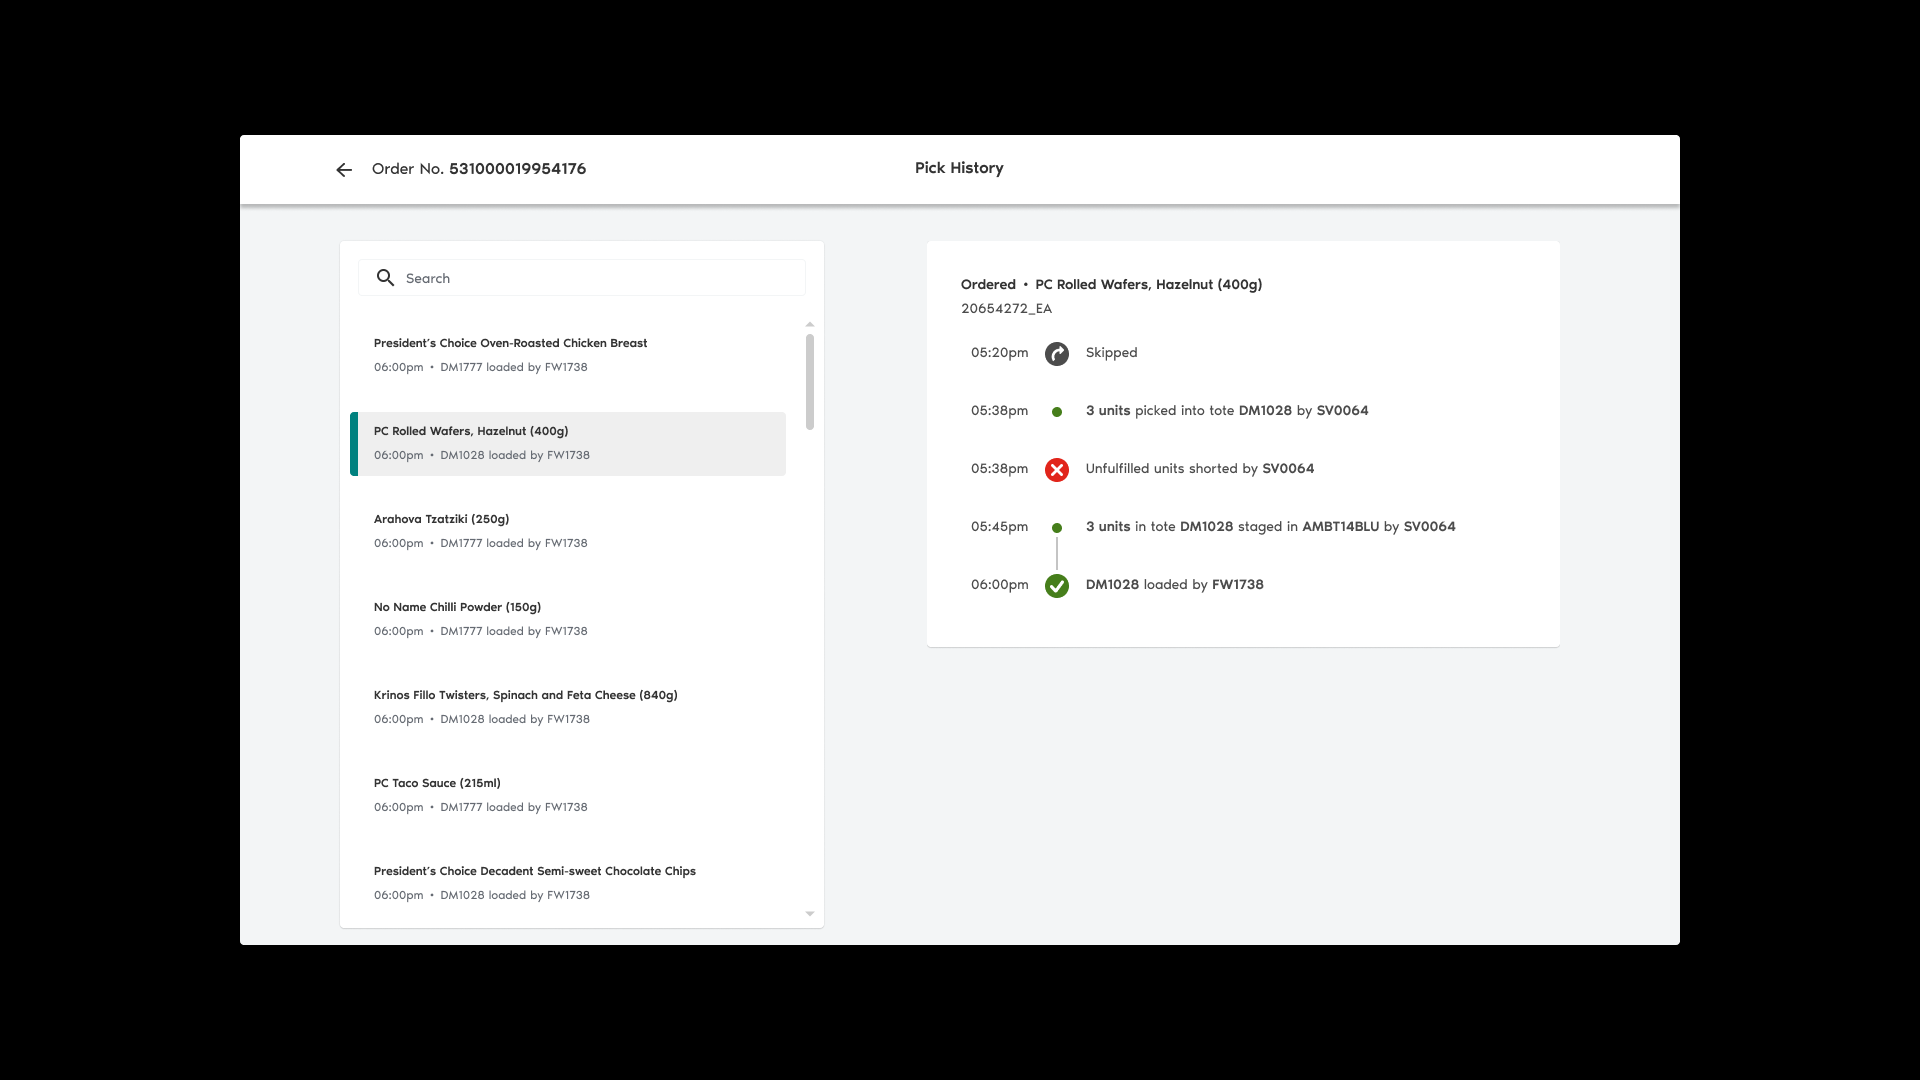
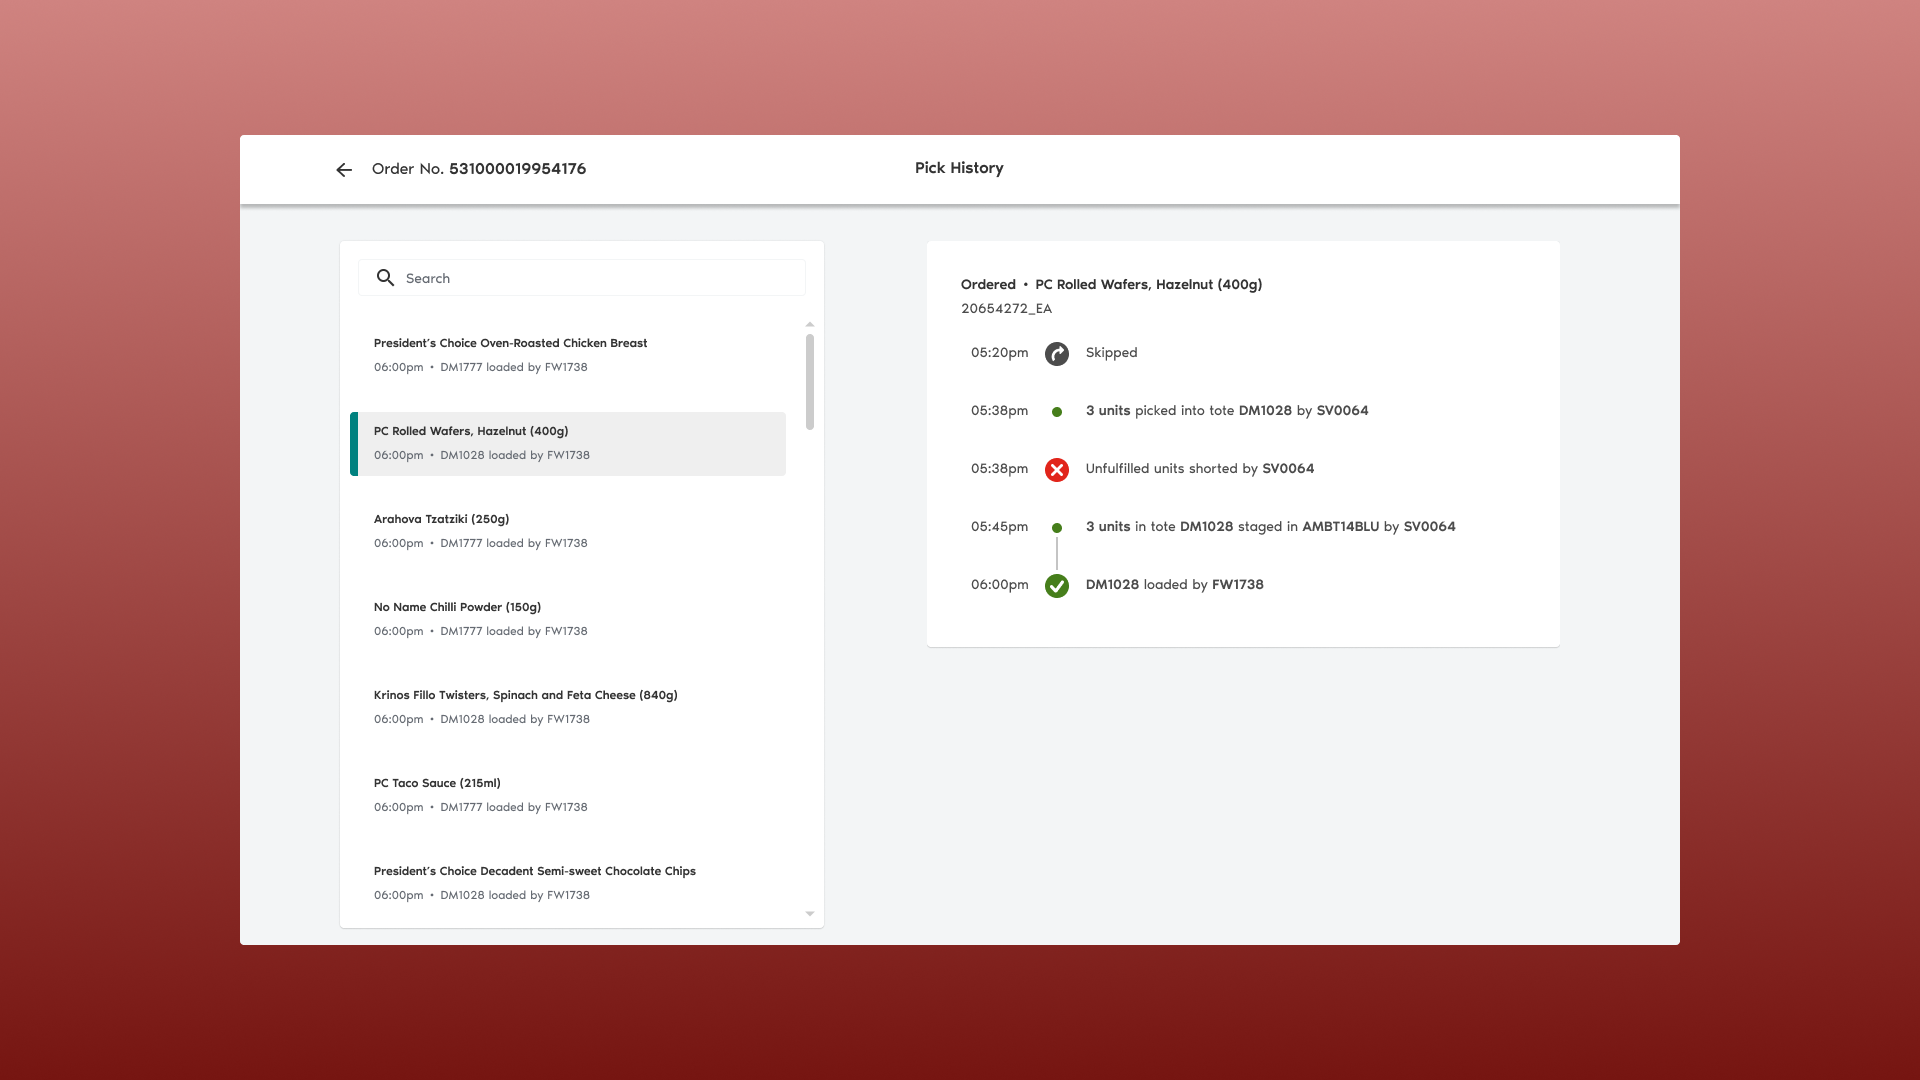
update content

diff --git a/src/projects.ts b/src/projects.ts
@@ -54,15 +54,6 @@ const projects: Project[] = [
         cardLink: 'View project →',
         url: '/qb-checkout-portal',
     },
-    {
-        title: 'Patient Support App',
-        company: 'Soulfx Technologies',
-        description: 'Enabled virtual-first healthcare delivery during COVID-19',
-        img: '/soulfx/soulfx-card.svg',
-        alt: 'Soulfx Patient Support App',
-        cardLink: 'View case study →',
-        url: '/patient-support-app',
-    },
 ];
 
 export default projects;

diff --git a/pages/qb-checkout-portal.tsx b/pages/qb-checkout-portal.tsx
@@ -68,8 +68,8 @@ const Checkout = () => (
             </Paragraph>
             <IndentInner>
                 <Strong>
-                    How can we better surface QuickBooks Autopay while incorporating new transaction
-                    channels?
+                    How can we enable the QuickBooks checkout portal to elegantly facilitate new
+                    elements and surface automation features?
                 </Strong>
             </IndentInner>
             <Paragraph>